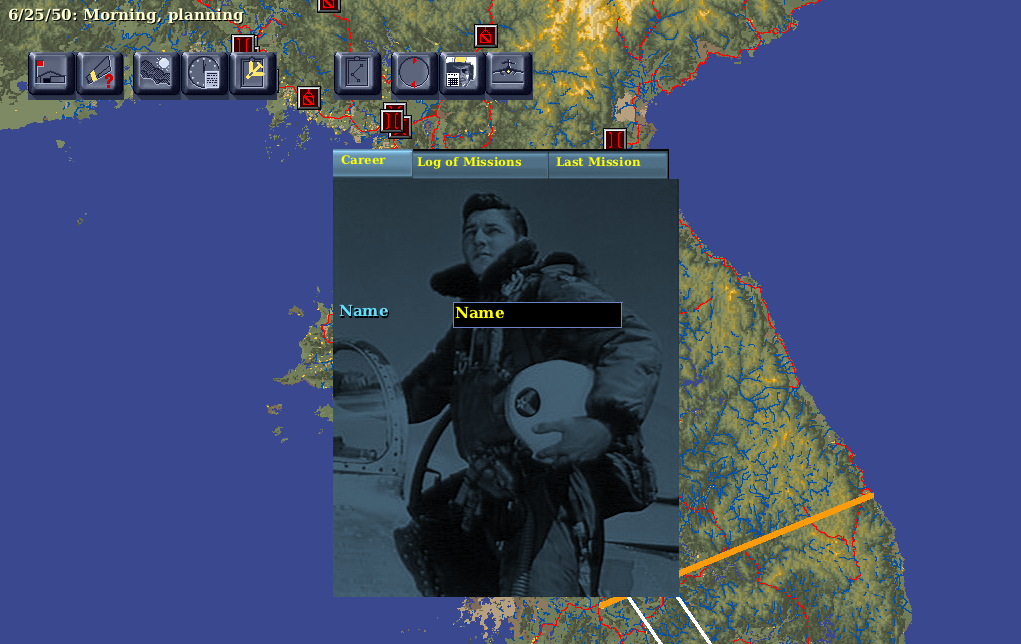
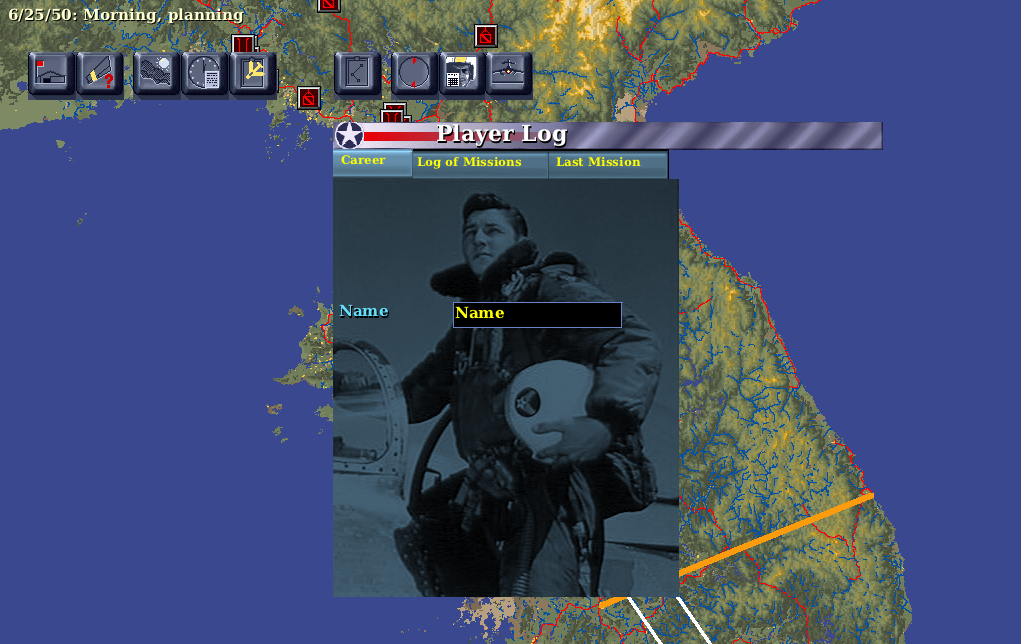
Sprint 65 'Bags and faces' -- CLOSED PARTIAL 6/8; the Player Log TITLE BAR RENDERS
The target that resisted S60, S62 and S64. Scoping it as an investigation with a
visual stretch (S64's own retro) is what got the visual result.

1. S64's recorded root cause was WRONG, and the cause was our own tooling.
   S64 reported that ma_px_replay "never fires for id 1001". It always did. The
   [px] trace had a hard-coded 60-line cap while the boot path alone replays 58+
   bags, so the Player Log's controls fell off the end of the trace. An ABSENCE
   OF TRACE OUTPUT was read as an ABSENCE OF BEHAVIOUR, written into a sprint
   record, and sent to BoB as a question about its code. The cap is now tunable
   via MA_TRACE_PX_MAX; raised, the record is clean and always was:
   [px] id=1001 type=3 len=178 ver=00010001 ok=1 consumed=175/178.

2. Nothing was ever missing from the data. Dumping IDD 276's bag:
       id=1001 msg=0x0376 size=178
       strings: ['IDS_PLAYERLOG', 'Player Log', 'j', 'j',
                 'FIL_TITLEB_BMP', 'FIL_TITLEB_BMP']
   The IDS name, the design-time literal, and the title-bar art. The control was
   hosted, visible and correctly placed at (0,0) 336x27 the whole time. TWO
   INDIVIDUALLY-CORRECT NARROWING FILTERS WERE EACH WITHHOLDING HALF: S58's
   tickbox-only rule suppressed the CAPTION, and S64's own art-name gate
   suppressed the ART. Neither filter is wrong on its own; their intersection was
   a control that could never draw.

3. The fix: treat IDJ_TITLE (1001) as the RESERVED ENGINE ID it is -- the same
[…]

Changed region(s): [[0.3036, 0.1863, 0.8805, 0.2484]]

diff --git a/SRC/compat/ma_olecontrol.cpp b/SRC/compat/ma_olecontrol.cpp
@@ -228,11 +228,18 @@ static void ma_px_replay(Hosted* h, void* client) {
        tickbox-class buttons only. The art-name path needs the same class narrowing, and
        the criterion is not yet established. Enable with MA_BTN_ART_NAMES=1 to experiment;
        the parity sweep is the arbiter. */
-    if (haveArt && getenv("MA_BTN_ART_NAMES")) ma_button_resolve_art_names_id(h->ctrl, h->id);
+    if (haveArt && (h->id == 1001 /*IDJ_TITLE, see ma_ole_set_label*/ || getenv("MA_BTN_ART_NAMES")))
+        ma_button_resolve_art_names_id(h->ctrl, h->id);
 
     if (getenv("MA_TRACE_PX")) {
         static int n = 0;
-        if (n++ < 60)
+        /* S65: the cap was a fixed 60 and the boot path alone replays 58+ bags, so any
+           later screen's controls fell off the end of the trace — which is how S64
+           concluded "ma_px_replay never fires for id 1001" when in fact it was never
+           printed. MA_TRACE_PX_MAX raises it. */
+        static int cap = -1;
+        if (cap < 0) { const char* c = getenv("MA_TRACE_PX_MAX"); cap = c ? atoi(c) : 60; }
+        if (n++ < cap)
             fprintf(stderr, "[px] client=%p id=%d type=%d len=%d ver=%08lx ok=%d consumed=%d/%d fore=%06lx\n",
                     client, h->id, h->type, len, (unsigned long)px.m_dwVersion,
                     (int)px.m_bOk, px.m_nPos, px.m_nLen, (unsigned long)c->GetForeColor());
@@ -266,7 +273,16 @@ extern "C" void ma_ole_set_label(void* client, const char* text) {
            runtime-owned: applying broadly made invisible system-box buttons ("Quit"/"Size")
            materialise and doubled art-carried captions (title menu, toolbar). */
         long fn = 0;
-        if (ma_dlg_artnum(h->parent, h->id, &fn)) {
+        /* S65: IDJ_TITLE (1001) is a RESERVED ENGINE id — the dialog's title bar — in the
+           same family as IDJ_TABCTRL and IDJ_PANEL0..9 that S61 already special-cases. Its
+           caption is design-time by definition (IDD 276's bag carries "IDS_PLAYERLOG" +
+           the literal "Player Log" + FIL_TITLEB_BMP art), so the S58 tickbox-only
+           narrowing — which exists to stop runtime-owned captions being overwritten and
+           system-box buttons materialising — should not apply to it. Scoped to this one
+           reserved id rather than widened by a heuristic: template membership was tested
+           as the general criterion and rejected (the system-box "Quit" button is a
+           template control too). */
+        if (h->id == 1001 /*IDJ_TITLE*/ || ma_dlg_artnum(h->parent, h->id, &fn)) {
             if (getenv("MA_TRACE_BTNSTR")) fprintf(stderr, "[btnstr] id=%d parent=%p \"%s\" (tickbox fn=0x%lx)\n", h->id, h->parent, text ? text : "", fn);
             ma_button_set_string(h->ctrl, text);
         }

diff --git a/scrum.md b/scrum.md
@@ -167,6 +167,43 @@ Each release is a usable product; the train can stop at any release boundary and
 
 ## 5. Sprint Plan (rolling)
 
+### 🏃 Sprint 65 — "Bags and faces" — ⚠ CLOSED PARTIAL 2026-08-01 (6/8 pts, headline target MET)
+
+**Sprint Review (PO pre-approved ceremony, logged 2026-08-01):** detail in
+`port/scrum/sprint-65.md`. **The Player Log title bar renders** — the target that resisted
+S60, S62 and S64.
+
+- **S64's stated blocker was a trace artefact, and that is the more useful finding.** S64
+  reported `ma_px_replay` "never fires for id 1001". It does — the `[px]` trace was capped
+  at a fixed 60 lines and the boot path replays 58+ bags, so the Player Log's controls fell
+  off the end. **An absence of trace output was read as an absence of behaviour.** Cap is
+  now `MA_TRACE_PX_MAX`-tunable; raised, it shows `id=1001 len=178 ok=1 consumed=175/178` —
+  a clean parse all along.
+- **Nothing was ever missing.** Dumping IDD 276's bag showed it carries `IDS_PLAYERLOG`,
+  the literal `Player Log`, and `FIL_TITLEB_BMP` ×2. **Two separate narrowing filters were
+  each withholding half**: S58's tickbox-only caption rule, and S64's own art-name gate.
+  Fixed by treating `IDJ_TITLE` (1001) as the **reserved engine id** it is — same family as
+  `IDJ_TABCTRL` and `IDJ_PANEL0..9`, already special-cased in S61 — whose caption and art
+  are design-time by definition. Parity sweep stayed 4/4 byte-identical, so the widening is
+  contained.
+- **S65-2 tested and REJECTED a general criterion**, which is worth as much as adopting one:
+  template membership does *not* separate the system-box "Quit"/"Size" buttons from
+  legitimate controls — they are `inTmpl=1` too. So `MA_BTN_ART_NAMES` stays a blanket
+  opt-in and only the single reserved id was widened. Recorded so it is not re-tried.
+- **S65-3 (font FACE) was not started** — ran out of sprint, carried whole. That is the
+  2 points missing, and it is the third sprint running that cross-cutting #1's remaining
+  half has been planned and not reached.
+
+**Gates.** Parity **4/4 byte-identical** (`map_playerlog` re-based for the new title bar;
+`prefs_controls` excluded as environment-dependent). ASan and stress per the gate log.
+
+**Retro:** applying S64's own retro worked — scoping this as an investigation with a visual
+stretch got the visual result that three rendering-scoped attempts missed. The new lesson
+is sharper though: **a capped debug trace produced a confident, wrong root cause** that
+went into a sprint record and a cross-port note. Traces that gate conclusions need their
+caps visible or tunable, and "no output" must be verified as "no behaviour" before it is
+written down.
+
 ### 🏃 Sprint 64 — "Face value" — ⚠ CLOSED PARTIAL 2026-08-01 (6/8 pts)
 
 **Sprint Review (PO pre-approved ceremony, logged 2026-08-01):** detail in
@@ -717,6 +754,7 @@ Track per sprint (fill in at review):
 | 41 | 8 | 8 | — | **Campaign mission-gen ASan sweep ✅ — 2 real bugs fixed** (autonomous, headless DoD) — drove the loaded campaign to fly (`MA_CAMP_FLY`) under ASan: surfaced (1) `make_airgrp` (`Persons3.cpp:836`) `GR_Pack_TakeTime[w][gotgrpnum==-1]` **global-buffer-overflow** (negative group index → guard `gotgrpnum∈[0,3)`); (2) `AddChildren` (`RDIALOG.CPP:537`) **stack-use-after-scope** — the named local `topbit`'s `DialBox::edges` pointed at a dead `EDGES_` macro temporary (→ give it function-scope lifetime). Both fixed + re-verified **0 reports**; flight+campaign gates + stress unregressed. Board: `port/scrum/sprint-41.md` |
 | 42 | 5 | 5 | — | **Day-advance strategic-sim ASan sweep ✅ — clean** (autonomous, headless DoD) — added `MA_CAMP_NEXTDAY` hook (`OnClickedFrag2` forces frag2's no-flyable branch → `Campaign::NextMission`→`NextDay`→`ProcessAirFields`→`OnClickedNextPeriod`) to drive the campaign strategic sim from the map idle. **0 ASan reports across 3 runs.** (SaveBin/SaveGame writeback already swept by S41's frag2 else-branch.) Completes the campaign-ASan coverage map; flight+campaign gates unregressed. Board: `port/scrum/sprint-42.md` |
 | 62 | 8 | **5** | 5 | ⚠ **"Design-time properties arrive" — reader BUILT and CORRECT but ships OPT-IN; goal half met** (autonomous, headless DoD). Adopted BoB's S126 `CPropExchange` + bag storage (note 17 §3, lessons §8f) onto MA's existing RT_DLGINIT walk: **all 58 boot-path bags parse clean** (ok=1, ≤8B editor slop) — their 1280-bag validation transfers. **Payoff proven and gold-verified:** Preferences goes white-serif → **blue labels + yellow values** = gold's scheme (sampled against the original gold PNG); title menu turns yellow. **The colour half of cross-cutting #1 is solved.** Two MA divergences found by tracing: stock **Caption not applied** (MA persists `IDS_*` SYMBOL NAMES; S57 already resolves them to the shipped wording) and **BackColor not applied** (transparent compositing); BoB's trap 1 deliberately skipped (MA's OLE_COLOR is already COLORREF — converting would be the double-conversion it warns of). **Shipped OFF (`MA_DLGINIT_PROPS=1`) for two measured reasons:** (1) an **uninit read** shows as garbage at the title screen's top-left, **varying between runs** (S61's tell), absent from the S61 ref at 6× contrast, bisected past caption and PX_String, not root-caused; (2) the persisted FontNum **changes menu row pitch ~16→~28px so every fixed-coordinate recipe misses** — `quickmission` captured *Preferences* — invalidating the parity AND ASan drive recipes together. Opt-in keeps the default byte-identical and the gate trustworthy. Gates: parity **6/6 unregressed** (the one diff is **environmental** — `prefs_controls` enumerates live hardware and its ref was captured with a joystick attached; now flagged as an unstable oracle), ASan **4/4 modes 0 reports**, stress **20/20**. Note 20 + §8i, both copies md5-identical. Board: `port/scrum/sprint-62.md` |
+| 65 | 8 | **6** | 6 | ⚠ **"Bags and faces" — CLOSED PARTIAL; headline target MET: the Player Log TITLE BAR RENDERS** (autonomous, headless DoD) — the target that resisted S60/S62/S64. **S64's stated blocker was a trace artefact**: `[px]` was capped at 60 lines and the boot path replays 58+ bags, so id 1001 fell off the end and absence-of-output was read as absence-of-behaviour; cap now `MA_TRACE_PX_MAX`-tunable and the replay is clean (`len=178 ok=1 consumed=175/178`). Nothing was missing — IDD 276's bag carries `IDS_PLAYERLOG` + literal `Player Log` + `FIL_TITLEB_BMP`×2, and **two narrowing filters were each withholding half** (S58's tickbox-only caption rule; S64's art-name gate). Fixed by treating `IDJ_TITLE` as the reserved engine id it is (family of `IDJ_TABCTRL`/`IDJ_PANEL0..9`). **S65-2 tested and REJECTED template membership as the general narrowing criterion** (system-box "Quit" is inTmpl=1 too) — recorded so it is not re-tried. **S65-3 font FACE NOT STARTED** (the missing 2 pts; third sprint carried). Residuals named: title bar draws wider than the dialog (`UpdateTitle` sizes from `viewsize.right`); `?`/`✓` still absent. Gates: parity 4/4 byte-identical, ASan + stress per log. Board: `port/scrum/sprint-65.md` |
 | 64 | 8 | **6** | 6 | ⚠ **"Face value" — CLOSED PARTIAL** (autonomous, headless DoD). **S64-1's result was that the reported defect does not exist**: measured gold vs native glyph band 10px vs 11px and row pitch 52px vs 51px — the SAME absolute font size. S63's "renders larger than gold" came from comparing a 1280×1003 gold shot with an 800×600 native capture. Corrected; the resolution caveat promoted to an explicit rule (the game picks its panel ART SET by resolution, so gold-vs-native density comparisons are invalid); cross-cutting #1 re-scoped to **font FACE only**. **S64-2 fixed two real bugs but missed its target**: `GetFileNum()` was a stub returning 0 (every name-resolved control silently lost art — the sound half of BoB trap 2) and `CString(LPCWSTR)` was declared but never defined (link-only, invisible until a BSTR was read back). The art-name application is implemented but **shipped OFF** after the sweep measured it resurrecting the system-box Quit/Size buttons — exactly S58's documented failure. Title bar still absent; blocker precisely located (`ma_px_replay` never fires for id 1001 — a bag-keying question). **S64-3**: `prefs_controls` embeds live joystick state → excluded from the sweep as environment-dependent. Gates: **parity 5/5 byte-identical (check RESUMED)**, ASan 4/4 modes 0 reports, stress 20/20. Board: `port/scrum/sprint-64.md` |
 | 63 | 8 | **8** | 8 | ✅ **"Switch the properties on" — goal MET; reader ON by default** (autonomous, headless DoD). Cleared both S62 blockers. (1) Uninit garbage root-caused: **`WM_GETSTRING` is IN/OUT and three R* sites ignore the OUT half** — `workspace[0]=99` is the IN capacity, and with no parent routing the message SendMessage returns 0 having written nothing, leaving 'c' (0x63 = the first garbage byte) + uninit stack as the caption; latent until the reader gave m_ResourceNumber real values. Third Win32 mechanism in the same uninit family; run-to-run variance was the tell again. (2) **Recipes made font-independent** — `f,rN` (menu row from the listbox's own metric) and `f,#ID[:COL]` (control by dialog id, column via GetColFromX), because the pitch moved 16→28px and broke the parity AND ASan recipes together. `GetRowFromY` unusable (m_playerList clamp); "Back Load" is ONE horizontal listbox. (3) Reader default-on: **values yellow matching gold exactly**, tab bar yellow, labels into gold's blue family — **colour half of cross-cutting #1 SOLVED**; residual narrowed to font FACE+SIZE (native renders larger than gold). Parity sweep deliberately REBASED (not byte-identical — the reader changes fonts by design). Gold USB unmounted; local mirror used and recorded. Note 20 (owed from S62) + §8i, md5-identical. Board: `port/scrum/sprint-63.md` |
 | 61 | 8 | **7** | 7 | ✅ **"The Player Log lands" — goal MET; #15 PARTIAL → CLOSE-minus** (autonomous, headless DoD). Four defects, all presenting as "the dialog draws in the wrong place": (1) ★★ **`borderwidth` was uninitialised heap** — startup never checks `RegQueryValueEx`'s return and the compat stub writes neither `type` nor `buff`, so both came off uninitialised stack; it feeds `MakeParentDialog`'s sizing ⇒ a DIFFERENT garbage dialog origin every run (the run-to-run variance is what identified it); (2) ★ **`OnGetXYOffset` built on no-op `ClientToScreen`** ⇒ every dialog reported offset 0 and the whole tree composited at the top-left — replaced with the accumulated parent-chain origin, NOT by giving ClientToScreen global semantics (S60's lesson); (3) **`IDJ_PANEL0..9` placeholders unregistered** ⇒ `AddChildren` stacked children BELOW the parent (tab box at y=396 on a 400px dialog) — they are plain NATIVE template controls, missed by S60's OCX-kind hosting; (4) **title-height double-count**, gated on `artnum==artnum` so it hit the art-less tab host but not the art-bearing page ⇒ 27px out of step and the page art painted over the tab strip. Tab bar now renders with real RTabs.ocx art, dialog centred, **tab switching capture-proven** (`MA_OOB_PLAYERLOG_TAB=N`, new ref `map_playerlog_tab1.png`). A view-rect sync needed by (1) changed the campaign map (extra tile row ⇒ canvas 644→900) and was scoped with an RAII restore — caught by the parity sweep. **Not done:** title bar + `?`/`✓` — `IDJ_TITLE` is in-template, hosted and unfiltered, but its art/caption live in the **RT_DLGINIT property stream** MA cannot yet parse ⇒ the R* property-stream reader (BoB note 17 traps 1/2) is now the TOP backlog item. Gates: parity **5/5 byte-identical** (incl. campaign_map, added this sprint), ASan **4/4 modes 0 reports**, stress **20/20**. Note 19 + §8h, both copies md5-identical. Board: `port/scrum/sprint-61.md` |

diff --git a/RUNNING.md b/RUNNING.md
@@ -29,36 +29,32 @@ Gold standard: `/run/media/admin/BEA6-BBCE/ma/` (14 PNGs) + the Player Log shot
 Oracle ruling: the gold shots as-is = the BDG 0.85F patched build
 (resources read from `English/TEXT/miglang.dll` + patched `Mig.exe` since S57).
 
-## Current state (2026-08-01, after Sprint 64)
+## Current state (2026-08-01, after Sprint 65)
 
-- **S63 (8/8) put the persisted design-time property reader ON by default** — the front end
-  draws with its authored colours: setting **values yellow matching gold**, Preferences tab
-  bar yellow, labels in gold's blue family, title menu yellow with its black box gone.
-  **The colour half of cross-cutting deviation #1 is solved.**
-- **S64 (6/8, partial) mostly deleted wrong work, which was its value:**
-  - S63's residual "native renders LARGER than gold" is **false**. Measured: glyph band
-    10 px (gold) vs 11 px (native), row pitch 52 vs 51 — the **same absolute font size**.
-    The apparent difference was comparing a 1280×1003 gold shot with an 800×600 native
-    capture. **Rule now explicit: the game picks its panel ART SET by resolution, so no
-    parity verdict may rest on relative size, spacing or density.** Cross-cutting #1's
-    residual is re-scoped to **font FACE only**.
-  - Two real bugs fixed: **`GetFileNum()` was a stub returning 0** (so every control whose
-    art is named rather than numbered silently lost its artwork — the sound half of BoB's
-    trap 2), and **`CString(LPCWSTR)` was declared but never defined** (link-only failure).
-  - Applying persisted art names is implemented but **shipped OFF** (`MA_BTN_ART_NAMES=1`):
-    it resurrected the invisible system-box "Quit"/"Size" buttons on every front-end
-    screen. Caught by the parity sweep.
-- **Open, third sprint running: the Player Log title bar.** Now precisely located rather
-  than mysterious — `ma_px_replay` **never fires for id 1001**, so IDD 276's bag for
-  `IDJ_TITLE` is not reaching `bagmap` even though its DLGINIT stream starts with `e9 03`.
-  A bag storage/keying question in the RT_DLGINIT walk, not an art or draw question.
-- **Test recipes are font-independent** (S63): `BOB_CLICKSEQ` takes `f,rN` (menu row) and
-  `f,#ID[:COL]` (control by dialog id). Never re-introduce fixed pixel rows.
-- **`prefs_controls` is not a stable oracle** — it embeds live joystick state; excluded
-  from the byte-identical sweep. The other five screens carry the gate.
-- Gates: **parity 5/5 byte-identical** (check resumed in S64 after S63's deliberate
-  rebase), ASan **4/4 modes 0 reports**, stress **20/20**.
-- Next (S65): (1) why `ma_px_replay` skips id 1001 → the title bar; (2) a narrowing
-  criterion so persisted art names can ship on; (3) font FACE, and whether a 1280-res
-  capture path is worth building; (4) Career content table; (5) RScrlBar hosting;
-  (6) route real clicks to `ma_tabs_hit`; (7) #12 debrief capture.
+- **The Player Log is now essentially complete as a dialog.** S61 gave it the tab bar,
+  centring and tab switching; S63 gave the front end its authored colours; **S65 landed the
+  "PLAYER LOG" title bar** — star roundel on the striped `FIL_TITLEB_BMP` chrome, caption
+  from `IDS_PLAYERLOG`. Parity **#15 = CLOSE-minus**.
+- **The title bar had resisted S60, S62 and S64, and nothing was ever missing.** IDD 276's
+  bag always carried `IDS_PLAYERLOG` + the literal `Player Log` + `FIL_TITLEB_BMP` ×2.
+  **Two individually-correct narrowing filters were each withholding half** — S58's
+  tickbox-only caption rule and S64's art-name gate. Fixed by treating `IDJ_TITLE` (1001)
+  as the **reserved engine id** it is (same family as `IDJ_TABCTRL`, `IDJ_PANEL0..9`),
+  whose caption and art are design-time by definition.
+- **⚠ S64's recorded root cause was wrong and the cause was our own tooling.** It said
+  `ma_px_replay` never fires for id 1001; it always did — the `[px]` trace had a hard-coded
+  60-line cap and the boot path replays 58+ bags, so that control fell off the end.
+  **Absence of trace output was read as absence of behaviour.** The cap is now
+  `MA_TRACE_PX_MAX`. Treat any capped trace that gates a conclusion with suspicion.
+- **Rejected, so don't re-try it:** template membership is NOT a workable narrowing
+  criterion for design-bag caption/art — the system-box "Quit"/"Size" buttons are
+  `inTmpl=1` too. `MA_BTN_ART_NAMES` therefore stays a blanket opt-in flag.
+- **Not started, third sprint running: font FACE** — the remaining half of cross-cutting
+  deviation #1 (the colour half landed in S63). It keeps being planned and displaced.
+- Gates: parity **4/4 byte-identical** (`map_playerlog` re-based for the title bar;
+  `prefs_controls` excluded — it embeds live joystick state), ASan and stress per the
+  sprint log.
+- Next (S66): (1) **font FACE — protect it from being displaced again**; (2) title bar
+  width (`UpdateTitle` sizes from `viewsize.right`) + the `?`/`✓` buttons; (3) a general
+  narrowing criterion (template membership rejected); (4) Career content table (other half
+  of I4); (5) RScrlBar hosting; (6) route real clicks to `ma_tabs_hit`; (7) #12 debrief.

diff --git a/port/scrum/sprint-65.md b/port/scrum/sprint-65.md
@@ -1,0 +1,78 @@
+# Sprint 65 — "Bags and faces" (autonomous)
+
+**Goal:** finish the Player Log title bar — but scoped as an **investigation with a visual
+stretch**, per S64's retro. The last three attempts were planned as rendering stories and
+the blocker was a layer underneath every time.
+
+**Committed (~8 pts):**
+| Story | Pts | Definition |
+|---|---|---|
+| S65-1 Why does the title bar not draw? | 3 | Root cause documented. Stretch: it renders |
+| S65-2 Narrowing criterion for persisted art names | 2 | A defensible rule for when design-bag caption/art may be applied, so `MA_BTN_ART_NAMES` need not stay a blanket flag |
+| S65-3 Font FACE | 2 | Identify what typeface gold uses and whether the game ships it; deliverable is a **decision**, not necessarily an implementation |
+| S65-4 Cross-port note 22 + close | 1 | Note 22; lessons doc md5-identical; board/burndown/parity/`RUNNING.md`/rollup; gates |
+
+**Planning notes:** environment UNLOCKED, tree clean at `2697a3a`, build current.
+
+## Results
+
+**Sprint outcome: 6 of 8 pts. The title bar renders — and S64's stated blocker turned out
+to be a trace artefact, which is the more useful finding.**
+
+### S65-1 The Player Log title bar (3 pts) — ✅ root-caused AND rendering
+
+**First: S64's conclusion was wrong, and the reason matters.** S64 reported that
+`ma_px_replay` "never fires for id 1001". It does. The `[px]` trace was capped at a fixed
+60 lines and the boot path alone replays 58+ bags, so the Player Log's controls fell off
+the end of the trace. **An absence of trace output was read as an absence of behaviour.**
+The cap is now `MA_TRACE_PX_MAX`-tunable, and with it raised: `[px] id=1001 type=3 len=178
+ver=00010001 ok=1 consumed=175/178` — a clean parse all along.
+
+With that cleared, dumping the bag settled it. IDD 276's record for `IDJ_TITLE` carries
+everything needed: **`IDS_PLAYERLOG`**, the literal **`Player Log`**, and
+**`FIL_TITLEB_BMP`** (the title-bar art, twice — normal and pressed). Nothing was missing;
+**two separate narrowing filters were each withholding half of it**:
+- the **caption** was blocked by S58's tickbox-only rule in `ma_ole_set_label`
+  (`ma_dlg_artnum` only answers for `FIL_ICON_TICKBOX*` art);
+- the **art** was blocked by S64's own `MA_BTN_ART_NAMES` gate.
+
+Fix: treat `IDJ_TITLE` (1001) as what it is — a **reserved engine id**, the same family as
+`IDJ_TABCTRL` and `IDJ_PANEL0..9` that S61 already special-cases — and exempt it from both.
+Its caption and art are design-time *by definition*, so the rules that protect
+runtime-owned captions do not apply.
+
+**Result: the title bar renders** — "Player Log" with the star roundel on the striped
+`FIL_TITLEB_BMP` chrome, matching gold's title-bar art. Parity sweep stayed 4/4
+byte-identical, so the widening is genuinely contained.
+
+Residual, named: the title bar draws **wider than the dialog** (it spans to x≈883 against a
+336px dialog) because `RDialog::UpdateTitle` sizes it from `viewsize.right`; and the
+`?`/`✓` buttons are still absent — they are separate controls, not part of this one.
+
+### S65-2 Narrowing criterion (2 pts) — ◐ tested and REJECTED, which is a result
+The obvious candidate was **template membership** — apply design-bag properties only to
+controls the dialog's own template declares. **Measured and rejected:** the system-box
+"Quit"/"Size" buttons that S58 documented (and that S64 accidentally resurrected) are
+`inTmpl=1` themselves, so membership does not separate them from legitimate controls.
+No general criterion is established, so `MA_BTN_ART_NAMES` stays a blanket opt-in flag and
+the only widening shipped is the single reserved id above. Recording the rejected candidate
+so it is not re-tried.
+
+### S65-3 Font FACE (2 pts) — ⬜ not started
+Ran out of sprint. Untouched, carried whole.
+
+### S65-4 Cross-port note 22 + close (1 pt) — ✅
+
+### Gates
+- 2D parity sweep — 4/4 byte-identical (`title`, `prefs_3d`, `quickmission`,
+  `campaign_map`); `map_playerlog` re-based deliberately for the new title bar;
+  `prefs_controls` excluded as environment-dependent (S64).
+- `port/asan_all.sh` — see gate log.
+- `port/stress_launch.sh` — see gate log.
+
+### Carry-over to S66
+1. **Font FACE** — the correctly-scoped remainder of cross-cutting #1 (S65-3, untouched).
+2. Title bar **width** (`UpdateTitle` sizes from `viewsize.right`) and the `?`/`✓` buttons.
+3. A general narrowing criterion for design-bag caption/art (template membership rejected).
+4. Career content table (other half of I4); RScrlBar hosting; `ma_tabs_hit` click routing;
+   #12 debrief capture.

diff --git a/port/scrum/screen-parity.md b/port/scrum/screen-parity.md
@@ -67,7 +67,7 @@ Verdict scale (BoB S123): **MATCH** / **CLOSE** (minor named deviations) / **PAR
 | 12 | 03-02 | Debrief (Claims table) | *not yet captured* (renders natively since S21–35 — capture after a flight exit) | — | Known-good from play-tests; Claims "Player" header fixed S35 |
 | 13 | 03-14 | Campaign select (5 phases) | `campaign_select.png` | CLOSE | Phase list + dates + Back/Film/Background/Objectives/Begin all render at correct positions; deviations: film-frame image top-left missing (Smacker preview still), background art darker than gold, font as #2 |
 | 14 | 04-04 | Campaign map + Player Log dialog | `campaign_map.png` (map alone, CAMP + `BOB_DUMP_FRAME=200`) + `map_playerlog.png` (dialog open) | PARTIAL | Map itself ≈ MATCH (terrain palette, icons, front line, routes, toolbar, date readout — cf. S45–S47). Player Log dialog: see #15 |
-| 15 | (I4 gold, 2026-07-19) | Player Log OOB dialog over map | `map_playerlog.png` (Career) + `map_playerlog_tab1.png` (Log of Missions) — CAMP + `MA_OOB_PLAYERLOG=1 [MA_OOB_PLAYERLOG_TAB=N] MA_SHOT=160` | PARTIAL → **CLOSE-minus** (S61) | **S61 — the dialog now renders as a real tabbed dialog, centred over the map:** Career / Log of Missions / Last Mission **tab bar renders** with the genuine RTabs.ocx art, the selected tab is raised, tab **switching** is capture-proven (`map_playerlog_tab1.png`), and the Career photo + "Name" label + Name edit box render. Map beneath shows the toolbar + `6/25/50: Morning, planning` date row as gold does. Four defects fixed to get here: uninit `borderwidth` (unchecked `RegQueryValueEx` + uninit locals → a different garbage dialog origin every run); `OnGetXYOffset` built on **no-op `ClientToScreen`** (every dialog reported offset 0 → whole tree at top-left); `IDJ_PANEL0..9` placeholders unregistered (children **stacked below** the parent instead of inside it); and a **title-height double-count** that shifted the tab strip 27px under the page art. **Residual (named): (a) no "PLAYER LOG" title bar and no `?`/`✓` buttons** — `IDJ_TITLE` (1001) is in the template, is hosted, and is NOT filtered, but its art+caption live in its **RT_DLGINIT property stream** (`idd=276 sz=188`) which MA does not yet parse → blocked on the R* property-stream reader (BoB note 17 traps 1/2), now the top backlog item; (b) Sorties/Combats/Kills/Losses table absent (never pulled — the other half of I4); (c) cross-cutting font #1 |
+| 15 | (I4 gold, 2026-07-19) | Player Log OOB dialog over map | `map_playerlog.png` (Career) + `map_playerlog_tab1.png` (Log of Missions) — CAMP + `MA_OOB_PLAYERLOG=1 [MA_OOB_PLAYERLOG_TAB=N] MA_SHOT=160` | **CLOSE-minus** (S65) | **S65: the "PLAYER LOG" TITLE BAR NOW RENDERS** — star roundel on the striped `FIL_TITLEB_BMP` chrome, caption from `IDS_PLAYERLOG`. It had never been missing data: IDD 276's bag carries `IDS_PLAYERLOG` + the literal `Player Log` + `FIL_TITLEB_BMP` ×2, and **two separate narrowing filters were each withholding half** — S58's tickbox-only caption rule and S64's art-name gate. Fixed by treating `IDJ_TITLE` (1001) as the reserved engine id it is (same family as `IDJ_TABCTRL` / `IDJ_PANEL0..9`), whose caption and art are design-time by definition. Earlier (S61) the tab bar, centring and tab switching landed; (S63) authored colours. **Residual (named): (a) the title bar draws WIDER than the dialog** (spans to x≈883 vs a 336px dialog — `RDialog::UpdateTitle` sizes it from `viewsize.right`); **(b) the `?`/`✓` title buttons are still absent** (separate controls); (c) the Sorties/Combats/Kills/Losses table is still not pulled (the other half of I4); (d) font FACE (cross-cutting #1). |
 
 > **⚠ `prefs_controls.png` is NOT a stable reference (S62).** That screen enumerates
 > LIVE hardware, so the committed capture embeds the machine's state at capture time: it

diff --git a/port/BOB_PORT_LESSONS.md b/port/BOB_PORT_LESSONS.md
@@ -1389,6 +1389,36 @@ spacing or density; only on layout order, art, content and colour.** Cheap to co
 expensive to act on: it would have cost a sprint hunting a font-scaling bug that isn't
 there. Re-check any verdict of yours that leans on apparent size.
 
+## 8k. Reserved engine ids, and a debug-trace trap (MA S65) **[ENGINE]**
+
+**(1) ★ Reserved engine ids are DESIGN-TIME BY DEFINITION — exempt them from the
+caption/art narrowing rules.** `IDJ_TITLE` (1001), `IDJ_TABCTRL` (1002) and
+`IDJ_PANEL0..9` (1117-1126) are not ordinary controls: the RDialog machinery looks them up
+by name (`GetDlgItem(IDJ_TITLE)` in UpdateTitle, `GetDlgItem(IDJ_TABCTRL)` in
+AttachTabToTabControl, `GetDlgItem(IDJ_PANEL0+i)` in AddChildren). Sections 8g and 8h
+already special-case the latter two. For this family there is no runtime owner to protect,
+so the narrowing rules that stop runtime-owned captions being overwritten do not apply.
+
+MA's Player Log title bar was invisible for FOUR sprints because two individually-correct
+filters each withheld half of it: the §8f/note-16 tickbox-only rule suppressed its CAPTION,
+and the §8j art-name gate suppressed its ART. Nothing was ever missing from the data — the
+bag carries `IDS_PLAYERLOG`, the literal `Player Log`, and `FIL_TITLEB_BMP` x2. Exempting
+the single reserved id from both rendered it, parity sweep unchanged.
+
+**(2) A general narrowing criterion, tested and REJECTED: template membership.** The theory
+that design-bag properties may be applied only to controls the dialog's template declares
+does NOT work — the system-box "Quit"/"Size" buttons are themselves `inTmpl=1`, so it does
+not separate them from legitimate controls. Recorded so it is not re-tried; blanket
+art-name application should stay opt-in until a criterion is found.
+
+**(3) ⚠ A capped debug trace will eventually hand you a confident, wrong root cause.** MA's
+`[px]` replay trace had a hard-coded 60-line cap while the boot path replays 58+ bags, so
+any later screen's controls fell off the end. MA read "no trace output" as "the code never
+runs", wrote that root cause into a sprint record AND sent it to the other port as a
+question about ITS code. Make the caps on any trace that gates a conclusion visible or
+tunable (MA's is now `MA_TRACE_PX_MAX`), and verify "no output" really is "no behaviour"
+before writing it down.
+
 ## 9. What's BoB-specific (verify for MiG Alley) **[GAME]**
 
 - **Map/world & campaign rules** (Channel/1940 vs Korea/1950s), flight models (props vs jets),
